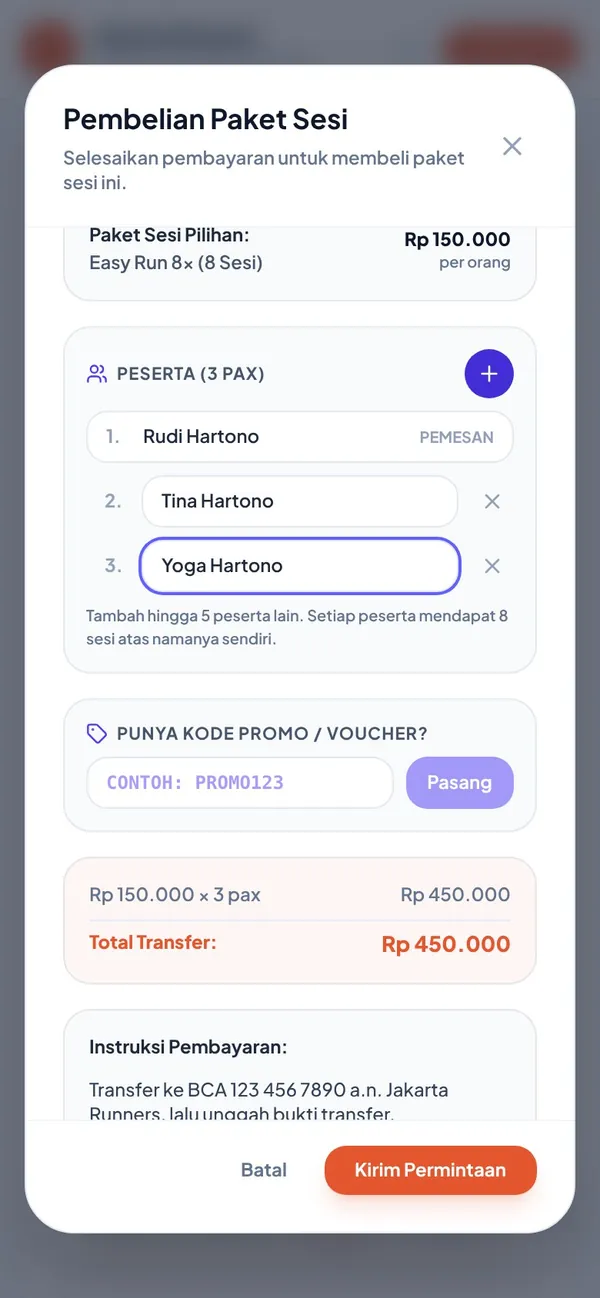
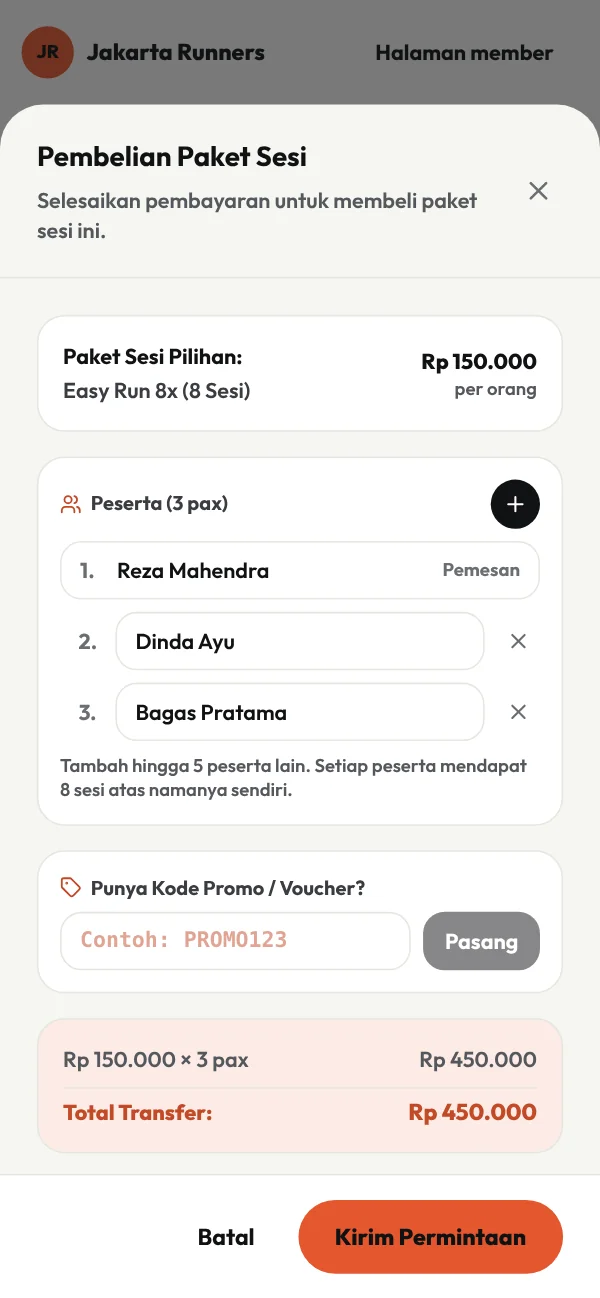
Update landing screenshots to the new club and member pages
Replace the four latih.club landing screenshots (club home, package list,
member home, group purchase dialog) with captures of the redesigned club
pages, adjust the tile crops to frame them, and refer to the member area
as "halaman member".

Claude-Session: https://claude.ai/code/session_01FsAacSUUHC1xYr6urN5B4v

diff --git a/apps/web/src/app/page.tsx b/apps/web/src/app/page.tsx
@@ -147,7 +147,7 @@ export default async function Home() {
           <figure className="absolute -right-2 bottom-0 w-[120px] rotate-[4deg] rounded-[24px] bg-[#111214] p-1.5 shadow-[0_30px_60px_-20px_rgba(17,18,20,0.5)] sm:-right-4 sm:w-[210px] sm:rounded-[34px] sm:p-2">
             <img
               src="/images/landing/member-hub-mobile.webp"
-              alt="Member Hub dengan tombol check-in"
+              alt="Halaman member dengan tombol check-in"
               width={600}
               height={1298}
               className="block h-auto w-full rounded-[18px] sm:rounded-[27px]"
@@ -239,9 +239,9 @@ export default async function Home() {
             <p className="text-base leading-relaxed text-[#4A4220]">{t("home.tile.packages.desc")}</p>
             <img
               src="/images/landing/microsite-sessions-desktop.webp"
-              alt="Daftar paket sesi di microsite klub"
+              alt="Daftar paket di halaman klub"
               loading="lazy"
-              className="mt-5 block h-[230px] w-full rounded-t-2xl object-cover object-[20%_35%]"
+              className="mt-5 block h-[230px] w-full rounded-t-2xl object-cover object-[0%_35%]"
             />
           </article>
           <article className="flex min-w-0 flex-[1_1_340px] flex-col gap-2.5 overflow-hidden rounded-[28px] bg-[#DCEBFF] px-6 pt-7 sm:px-8 sm:pt-8">
@@ -250,9 +250,9 @@ export default async function Home() {
             <p className="text-base leading-relaxed text-[#24364F]">{t("home.tile.member.desc")}</p>
             <img
               src="/images/landing/member-hub-mobile.webp"
-              alt="Member Hub dengan sisa sesi"
+              alt="Halaman member dengan sisa sesi"
               loading="lazy"
-              className="mt-5 block h-[230px] w-[70%] self-center rounded-t-3xl border-[7px] border-b-0 border-[#111214] object-cover object-[center_62%]"
+              className="mt-5 block h-[230px] w-[70%] self-center rounded-t-3xl border-[7px] border-b-0 border-[#111214] object-cover object-[center_30%]"
             />
           </article>
         </div>

diff --git a/apps/web/src/lib/home-content.ts b/apps/web/src/lib/home-content.ts
@@ -24,7 +24,7 @@ export const HOME_DEFAULTS = {
   'home.tile.packages.title': 'Jual paket latihanmu',
   'home.tile.packages.desc': 'Harga umum, private, khusus member — kuota penuh otomatis waiting list.',
   'home.tile.member.title': 'Check-in sendiri',
-  'home.tile.member.desc': 'Sisa sesi, masa berlaku, dan riwayat hadir di My Hub.',
+  'home.tile.member.desc': 'Sisa sesi, masa berlaku, dan riwayat hadir di halaman member.',
 
   'home.clubs.headline': 'Klub yang sudah jalan',
   'home.blog.headline': 'Tips seputar klub & latihan',
